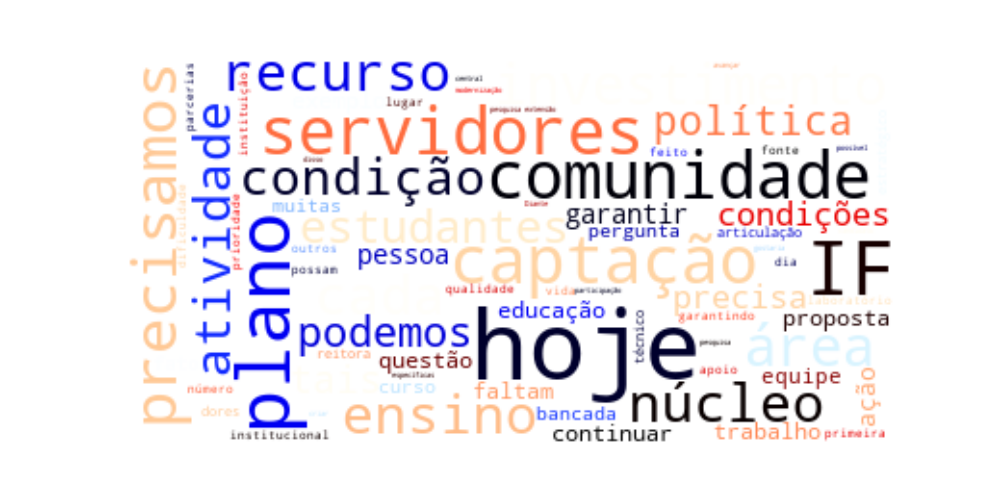
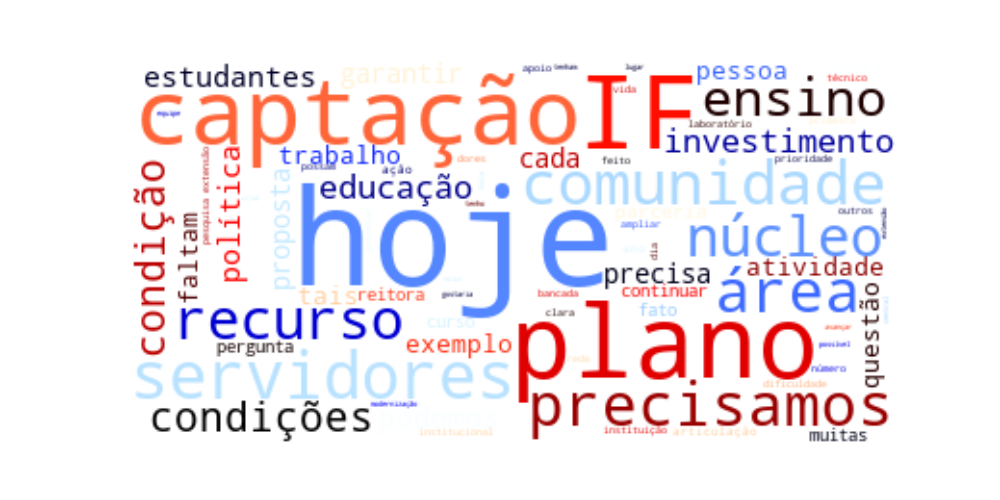
add cors

diff --git a/src/server.js b/src/server.js
@@ -4,9 +4,15 @@ import getTranscription from './utils/getTranscription.js'
 import makeTextFile from './utils/makeTextFile.js'
 import makeSeparatedTalkFile from './utils/makeSeparatedTalkFile.js'
 import execGenerateWordcloudScript from './utils/execGenerateWordcloudScript.js'
+import cors from 'cors'
 
 const app = express()
 const PORT = process.env.PORT || 3333
+
+app.use(cors({
+  origin: '*',
+  methods: ['GET', 'POST']
+}))
 
 app.use(express.json())
 app.use('/wordcloud', express.static('src/utils/wordcloud'))
@@ -37,14 +43,14 @@ app.post('/api', async (req, res) => {
       ${transcription}. Analise o texto que contém as falas de dois candidatos, Adriana e Lodovico, em um debate. Para cada candidato, identifique e destaque os pontos críticos positivos em suas falas — ou seja, os argumentos, ideias ou propostas que são considerados fortes, relevantes e construtivos para o tema discutido. Apresente um resumo desses pontos para Adriana e outro para Lodovico, destacando o que há de mais impactante em suas intervenções.
       O formato final deve ser assim, nada além:
 
-      ponto 1 da adriana;
-      ponto 2 da adriana:
-      ponto 3 da adriana;
+      Ponto 1 da adriana;
+      Ponto 2 da adriana:
+      Ponto 3 da adriana;
       ...
 
-      ponto 1 do lodovico;
-      ponto 2 do lodovico;
-      ponto 3 do lodovico;
+      Ponto 1 do lodovico;
+      Ponto 2 do lodovico;
+      Ponto 3 do lodovico;
       ...
     `
 
@@ -54,9 +60,9 @@ app.post('/api', async (req, res) => {
     const criticalPointsResponse = await fetchGeminiApi(promptGetCritialPoints)
     const criticalPoints = criticalPointsResponse.split('\n\n')
     
-    res.status(200).json({ adriana: criticalPoints[0], lodovico: criticalPoints[1] })
-
     await execGenerateWordcloudScript()
+    
+    res.status(200).json({ adriana: criticalPoints[0], lodovico: criticalPoints[1] })
   } 
   catch(err) {
     console.error(`An error had occurred: ${err}`)

diff --git a/src/utils/wordcloud/generateWordcloud.py b/src/utils/wordcloud/generateWordcloud.py
@@ -15,11 +15,12 @@ plt.rcParams["figure.figsize"] = (10, 5)
 
 # Configuração do Wordcloud
 wordcloud = WordCloud(
-  max_font_size=50,
+  max_font_size=70,
   max_words=75,
   background_color="white",
   stopwords=stopwords,
-  colormap='flag')
+  colormap='flag'
+)
 
 # Função que cria os Wordclouds
 def createWordcloud(words, fileName):